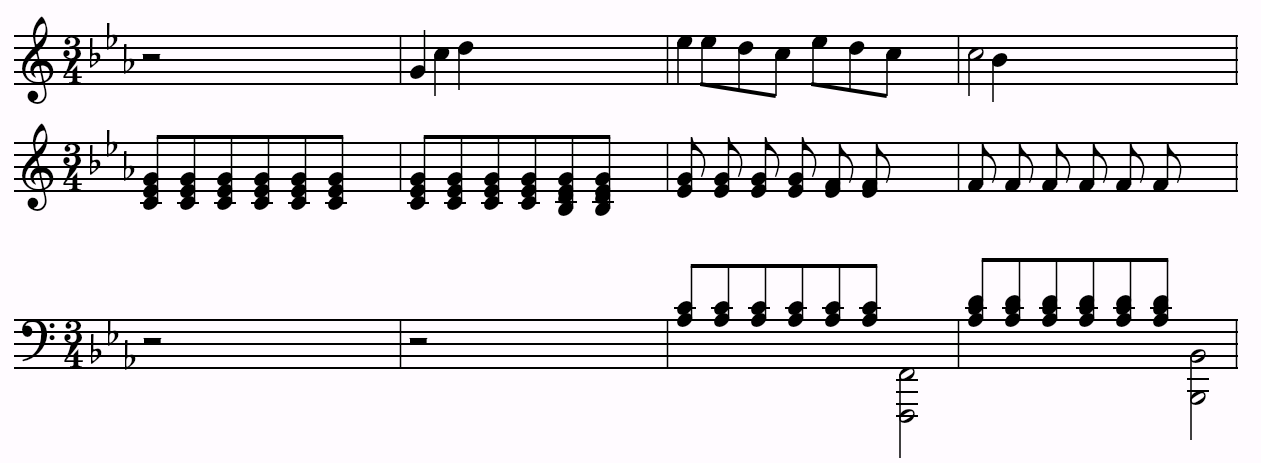
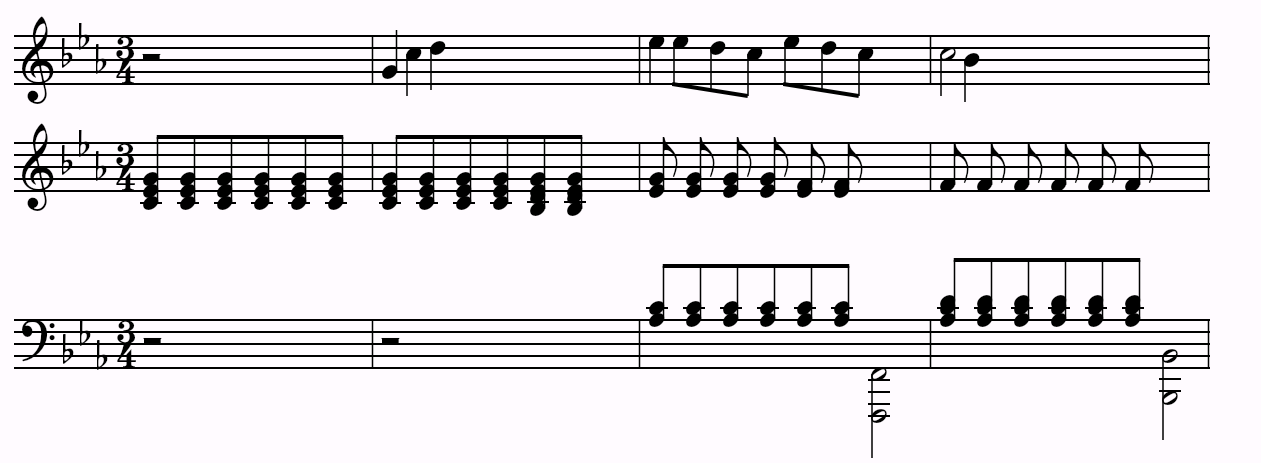
Fix time beat and keys positioning (#8)

diff --git a/lib/src/notation_painter/measure_layout.dart b/lib/src/notation_painter/measure_layout.dart
@@ -194,22 +194,6 @@ class MeasureLayout extends StatelessWidget {
             children.add(ClefElement(clef: clef));
           }
           // -----------------------------
-          // Time
-          // -----------------------------
-
-          for (var times in element.times) {
-            switch (times) {
-              case TimeBeat _:
-                var timeBeatWidget = TimeBeatElement(timeBeat: times);
-                children.add(timeBeatWidget);
-                break;
-              case SenzaMisura _:
-                throw UnimplementedError(
-                  "Senza misura is not implemented in renderer yet",
-                );
-            }
-          }
-          // -----------------------------
           // Keys
           // -----------------------------
           var keys = element.keys;
@@ -235,6 +219,24 @@ class MeasureLayout extends StatelessWidget {
           if (keySignature.firstPosition != null) {
             children.add(keySignature);
           }
+          // -----------------------------
+          // Time
+          // -----------------------------
+
+          for (var times in element.times) {
+            switch (times) {
+              case TimeBeat _:
+                var timeBeatWidget = TimeBeatElement(timeBeat: times);
+                children.add(timeBeatWidget);
+                break;
+              case SenzaMisura _:
+                throw UnimplementedError(
+                  "Senza misura is not implemented in renderer yet",
+                );
+            }
+          }
+
+          /// BREAK
           break;
         // case Harmony _:
         //   break;
